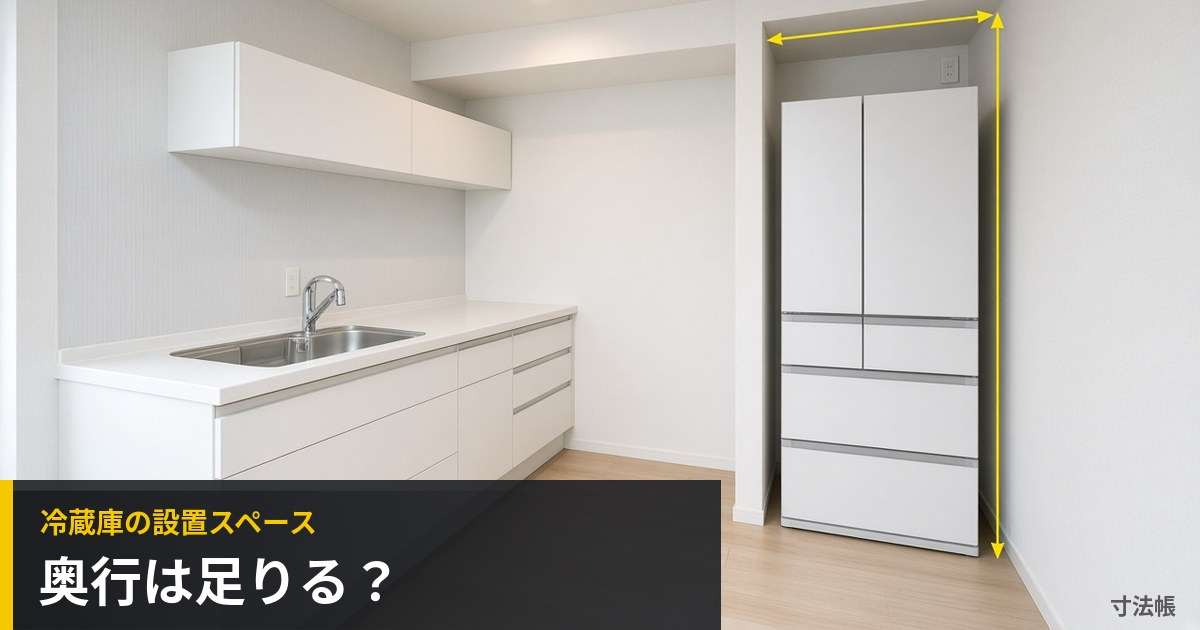
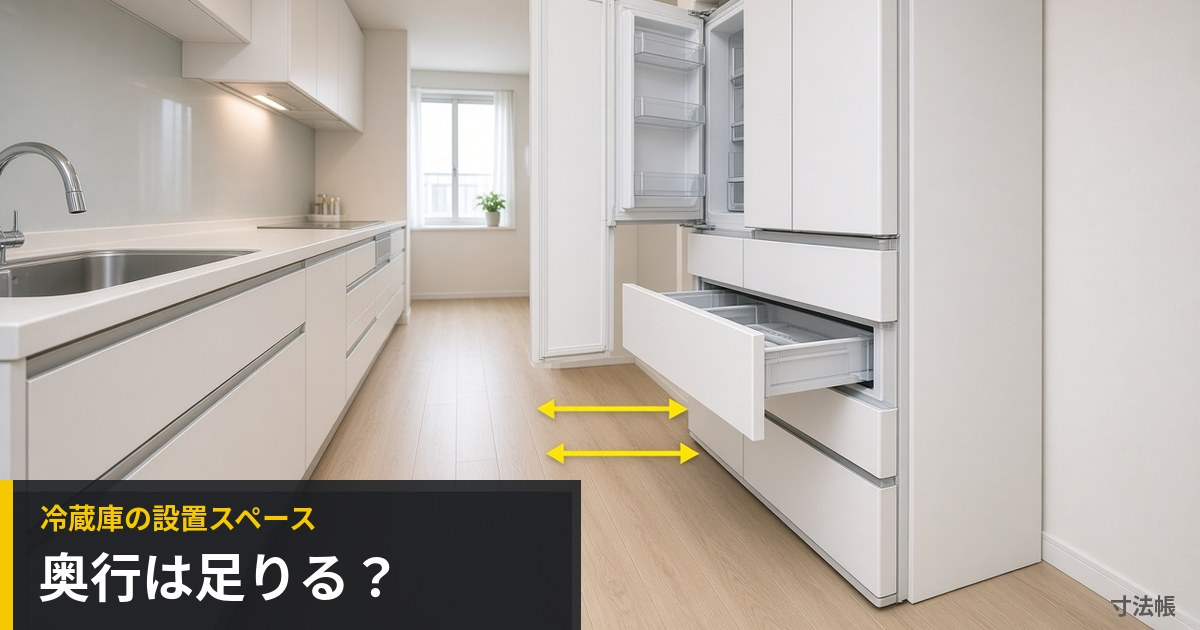
feat: 冷蔵庫記事のアイキャッチを記事ごとに別写真へ (#36)

diff --git a/tools/figures/fridge_photo_eyecatch.py b/tools/figures/fridge_photo_eyecatch.py
@@ -1,35 +1,36 @@
-"""冷蔵庫記事の写真系アイキャッチ（1200x630 JPG）。python3 tools/figures/fridge_photo_eyecatch.py"""
+"""冷蔵庫記事の写真系アイキャッチ（1200x630 JPG）。記事ごとに別のベース写真を使う。
+python3 tools/figures/fridge_photo_eyecatch.py"""
 from pathlib import Path
 from PIL import Image, ImageDraw, ImageFont
 ROOT = Path(__file__).resolve().parents[2]
-BASE = Path(__file__).parent / "assets" / "fridge-photo-base.jpg"
+ASSETS = Path(__file__).parent / "assets"
 FONT = "/usr/share/fonts/opentype/noto/NotoSansCJK-Bold.ttc"
+# slug: (kicker, title lines, band box (x0,y0,x1,y1) in 1200x630 output)
 ITEMS = {
-    "fridge-delivery-path-fit": ("冷蔵庫の搬入経路", "通路80/90cm、通る？"),
-    "fridge-install-clearance-outer-dims": ("冷蔵庫の設置スペース", "奥行は足りる？"),
-    "fridge-side-top-clearance-door-swing": ("冷蔵庫の設置スペース", "左右・上のすき間は何mm？"),
+    "fridge-delivery-path-fit": ("冷蔵庫の搬入経路", ["通路80/90cm、", "通る？"], (0, 334, 420, 560)),
+    "fridge-install-clearance-outer-dims": ("冷蔵庫の設置スペース", ["奥行は足りる？"], (0, 480, 580, 630)),
+    "fridge-side-top-clearance-door-swing": ("冷蔵庫の設置スペース", ["左右・上のすき間は何mm？"], (0, 480, 720, 630)),
 }
 W, H = 1200, 630
-def make(slug, kicker, title):
-    im = Image.open(BASE).convert("RGB")
-    s = W / im.width
-    im = im.resize((W, round(im.height * s)), Image.LANCZOS)
-    top = im.height - H
-    im = im.crop((0, top, W, im.height))
+def make(slug, kicker, lines, box):
+    im = Image.open(ASSETS / f"{slug}-base.jpg").convert("RGB")
+    im = im.resize((W, round(im.height * W / im.width)), Image.LANCZOS)
+    im = im.crop((0, im.height - H, W, im.height))
+    x0, y0, x1, y1 = box
     ov = Image.new("RGBA", (W, H), (0, 0, 0, 0)); d = ImageDraw.Draw(ov)
-    d.rectangle((0, 480, 720, H), fill=(28, 30, 34, 225))
-    d.rectangle((0, 480, 12, H), fill=(245, 200, 0, 255))
-    im = Image.alpha_composite(im.convert("RGBA"), ov)
-    d = ImageDraw.Draw(im)
-    fk = ImageFont.truetype(FONT, 28, index=0)
+    d.rectangle(box, fill=(28, 30, 34, 225)); d.rectangle((x0, y0, x0 + 12, y1), fill=(245, 200, 0, 255))
+    im = Image.alpha_composite(im.convert("RGBA"), ov); d = ImageDraw.Draw(im)
+    fk = ImageFont.truetype(FONT, 28)
     size = 52
-    while True:
-        ft = ImageFont.truetype(FONT, size, index=0)
-        if d.textlength(title, font=ft) <= 660 or size <= 30: break
+    while size > 30:
+        ft = ImageFont.truetype(FONT, size)
+        if max(d.textlength(l, font=ft) for l in lines) <= (x1 - x0) - 60: break
         size -= 2
-    d.text((40, 500), kicker, font=fk, fill=(245, 200, 0))
-    d.text((38, 540), title, font=ft, fill="white")
-    d.text((W - 24, H - 16), "寸法帳", font=ImageFont.truetype(FONT, 22, index=0), fill=(90, 90, 90), anchor="rs")
+    top = y0 + ((y1 - y0) - (40 + len(lines) * (size + 14))) // 2 - 6
+    d.text((x0 + 40, top), kicker, font=fk, fill=(245, 200, 0))
+    for i, l in enumerate(lines):
+        d.text((x0 + 38, top + 40 + i * (size + 14)), l, font=ft, fill="white")
+    d.text((W - 24, H - 16), "寸法帳", font=ImageFont.truetype(FONT, 22), fill=(90, 90, 90), anchor="rs")
     out = ROOT / "site/public/img" / f"{slug}-photo-eyecatch.jpg"
     im.convert("RGB").save(out, quality=88, optimize=True, progressive=True); print(out)
 for k, v in ITEMS.items(): make(k, *v)
